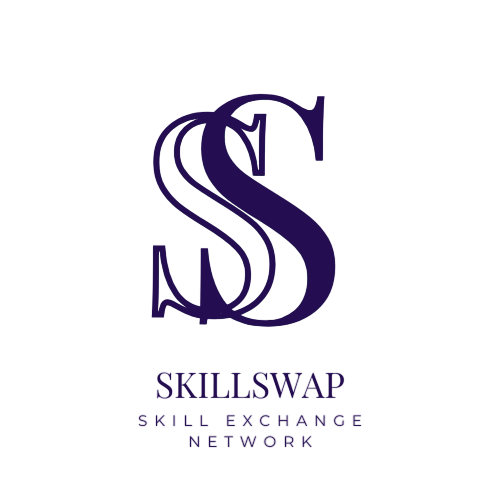
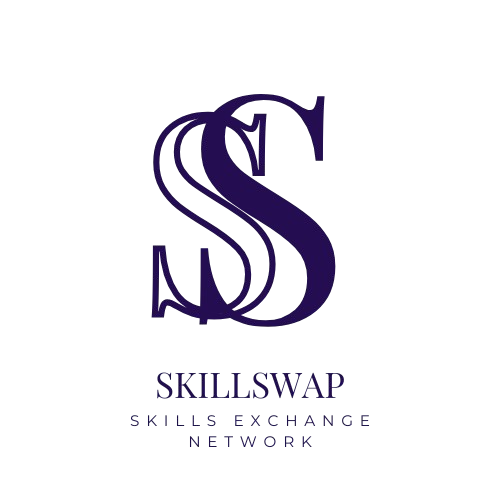
Seventh Commit

diff --git a/index.html b/index.html
@@ -13,7 +13,7 @@
       </div>
     <nav>
       <a href="#">Overview</a>
-      <a href="#">Prices</a>
+      <a href="#">Pricing</a>
       <a href="#">Community</a>
       <a href="#">Help</a>
       <a href="#" class="upgrade-btn">Upgrade</a>
@@ -22,7 +22,7 @@
   
   <main>
     <div class="hero-content">
-      <h1>Skill Exchange Network Platform</h1>
+      <h1>Skills Exchange Network Platform</h1>
       <p>A community where you teach skills you have in exchange for learning skills you want.</p>
       <a href="#" class="learn-more-btn">Learn More</a>
     </div>
